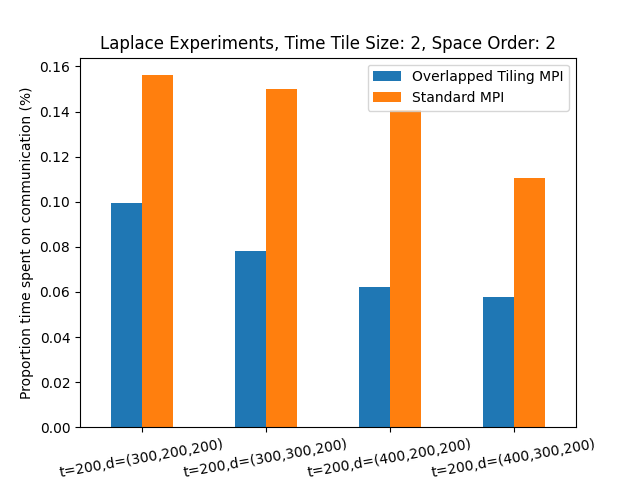
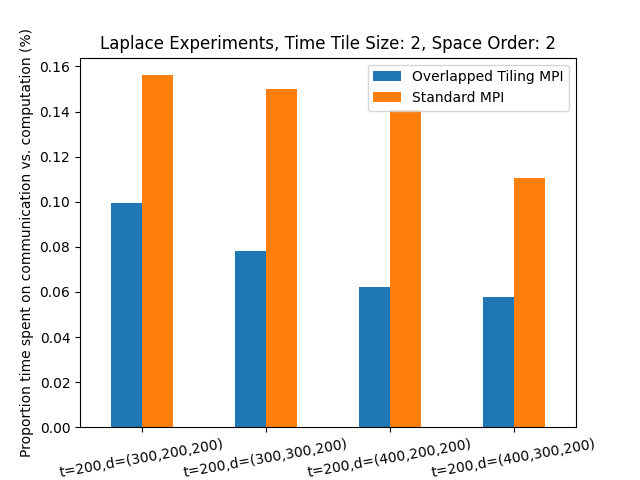
Run experiments for tts 2 so 8

Changed region(s): [[0.0312, 0.0625, 0.0625, 0.9688]]

diff --git a/results/results-2tts/postprocessing.py b/results/results-2tts/postprocessing.py
@@ -2,7 +2,8 @@ import csv
 import matplotlib.pyplot as plt
 import pandas as pd
 
-space_orders = [2, 4]
+space_orders = [2, 4, 8]
+tts = 2
 num_repeats = 3
 
 results_folder = "results/"
@@ -73,12 +74,11 @@ def generate_graph(space_order):
     def save_graph(results):
         df = pd.DataFrame(results, columns=['Dimensions', 'Overlapped Tiling MPI', 'Standard MPI', 'OpenMP'])
         df.plot(x='Dimensions', kind='bar', rot=10, ylabel="Average time elapsed (s)", 
-                title="Laplace Experiments, Time Tile Size: 2, Space Order: " + str(space_order))
+                title="Laplace Experiments, Time Tile Size: " + str(tts) + "Space Order: " + str(space_order))
         plt.savefig(graphs_folder + "results_" + str(space_order) + "so")
 
         df = pd.DataFrame(halo_results, columns=['Dimensions', 'Overlapped Tiling MPI', 'Standard MPI'])
-        df.plot(x='Dimensions', kind='bar', rot=10, ylabel="Proportion time spent on communication (%)", 
-                title="Laplace Experiments, Time Tile Size: 2, Space Order: " + str(space_order))
+        df.plot(x='Dimensions', kind='bar', rot=10, ylabel="Proportion time spent on communication vs. computation (%)", title="Laplace Experiments, Time Tile Size: " + str(tts) + ", Space Order: " + str(space_order))
         plt.savefig(graphs_folder + "comm_results_" + str(space_order) + "so")
     
     save_graph(results)

diff --git a/mpi_test_norms.py b/mpi_test_norms.py
@@ -56,7 +56,7 @@ u.data[:, :, :, :] = init_value
 configuration['mpi'] = 'full'
 op0 = Operator(eq0, opt=('advanced', {'mpi': True}))
 op0.apply(time_M=nt, dt=dt)
-norm_u = norm(u)
+norm_u = norm(u, order=so)
 
 # ======= mpi overlapped implementation
 u.data[:, :, :, :] = init_value
@@ -69,8 +69,8 @@ op1.apply(time_M=nt, dt=dt)
 usol = u
 
 print(norm_u)
-print(norm(u))
-assert np.isclose(norm(u), norm_u, atol=1e-4, rtol=0)
+print(norm(u, order=so))
+assert np.isclose(norm(u, order=so), norm_u, atol=1e-4, rtol=0)
 print("Asserted")
 
 # plt.imshow(usol.data[1, 10, :, :]); pause(1)

diff --git a/results/results-2tts/artefacts_used/mpi_test_norms.py b/results/results-2tts/artefacts_used/mpi_test_norms.py
@@ -56,7 +56,7 @@ u.data[:, :, :, :] = init_value
 configuration['mpi'] = 'full'
 op0 = Operator(eq0, opt=('advanced', {'mpi': True}))
 op0.apply(time_M=nt, dt=dt)
-norm_u = norm(u)
+norm_u = norm(u, order=so)
 
 # ======= mpi overlapped implementation
 u.data[:, :, :, :] = init_value
@@ -69,8 +69,8 @@ op1.apply(time_M=nt, dt=dt)
 usol = u
 
 print(norm_u)
-print(norm(u))
-assert np.isclose(norm(u), norm_u, atol=1e-4, rtol=0)
+print(norm(u, order=so))
+assert np.isclose(norm(u, order=so), norm_u, atol=1e-4, rtol=0)
 print("Asserted")
 
 # plt.imshow(usol.data[1, 10, :, :]); pause(1)

diff --git a/mpi_laplace_2so.c b/mpi_laplace_2so.c
@@ -43,7 +43,7 @@ static void sendrecv0(struct dataobj *restrict u_vec, const int x_size, const in
 static void haloupdate0(struct dataobj *restrict u_vec, MPI_Comm comm, struct neighborhood * nb, int otime, const int nthreads);
 
 const int angle = 1;
-const int time_tile_size = 2;
+const int time_tile_size = 8;
 const int space_order = angle * 2;
 const int kernel_offset = time_tile_size * angle;
 
